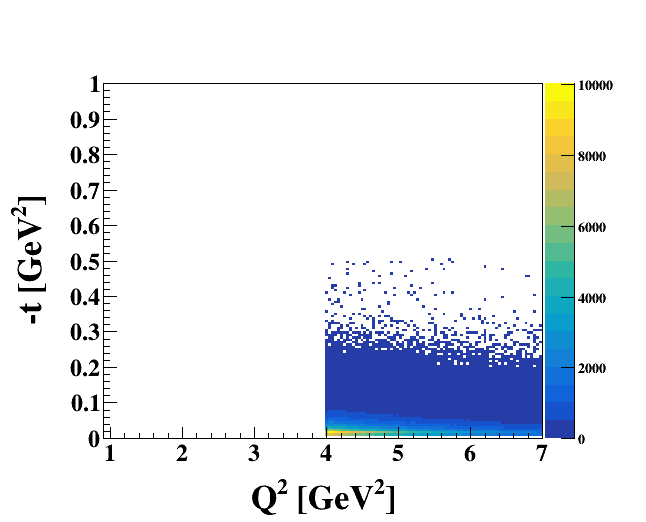
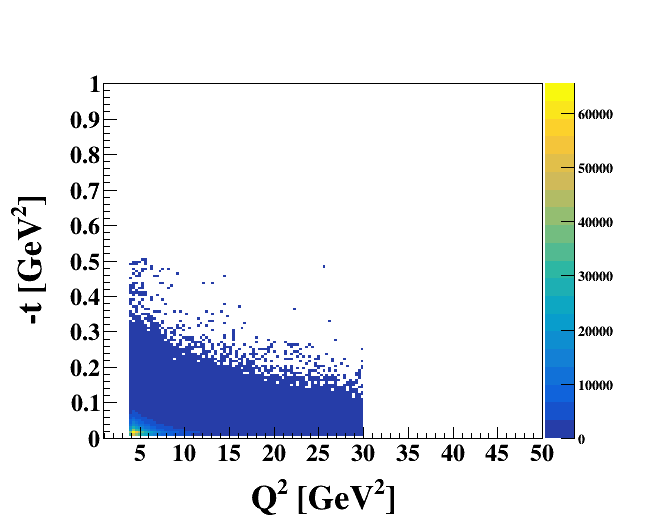
push

diff --git a/analysis_dvcs_4He_t.C b/analysis_dvcs_4He_t.C
@@ -83,10 +83,10 @@ void analysis_dvcs_4He_t::Loop()
       for(int i=0; i<n_con; i++)
       {
          hh_xB[i] = new TH1D(Form("hh_xB[%d]",i),"", 150, 0, 0.8);
-         hh_Q2[i] = new TH1D(Form("hh_Q2[%d]",i),"", 150, 0, 10.0);
+         hh_Q2[i] = new TH1D(Form("hh_Q2[%d]",i),"", 150, 0, 50.0);
 
-         h_Q2_tt_Coh[i]  = new TH2D(Form("h_Q2_tt_Coh[%d]",i),"",150, 0.9, 7, 150, 0.0, 1);
-         h_Q2_xB_Coh[i]  = new TH2D(Form("h_Q2_xB_Coh[%d]",i),"",150, 0.05, 0.5, 150, 0.9, 7);
+         h_Q2_tt_Coh[i]  = new TH2D(Form("h_Q2_tt_Coh[%d]",i),"",150, 0.9, 50, 150, 0.0, 1);
+         h_Q2_xB_Coh[i]  = new TH2D(Form("h_Q2_xB_Coh[%d]",i),"",150, 0.05, 0.5, 150, 0.9, 50);
          h_tt_xB_Coh[i]  = new TH2D(Form("h_tt_xB_Coh[%d]",i)," ",150, 0.045, 1, 150, 0.0, 0.65);
          for(int j=0; j<n_xB; j++)
          {
@@ -96,7 +96,7 @@ void analysis_dvcs_4He_t::Loop()
                h_dvcs_N_p[i][j][k] = new TH1F(Form("h_dvcs_N_p[%d][%d][%d]",i,j,k)," ", 12,0,360);
                h_dvcs_N_m[i][j][k] = new TH1F(Form("h_dvcs_N_m[%d][%d][%d]",i,j,k)," ", 12,0,360);
  
-               h_t_Q2_Coh[i][j][k] = new TH1D(Form("h_t_Q2_Coh[%d][%d][%d]",i,j,k),"",150, 0.5, 10);
+               h_t_Q2_Coh[i][j][k] = new TH1D(Form("h_t_Q2_Coh[%d][%d][%d]",i,j,k),"",150, 0.5, 50);
                h_t_xB_Coh[i][j][k] = new TH1D(Form("h_t_xB_Coh[%d][%d][%d]",i,j,k),"",150, 0.05, 0.7);
                h_t_t_Coh[i][j][k]  = new TH1D(Form("h_t_t_Coh[%d][%d][%d]",i,j,k),"",150, 0.0, 0.7);
           }
